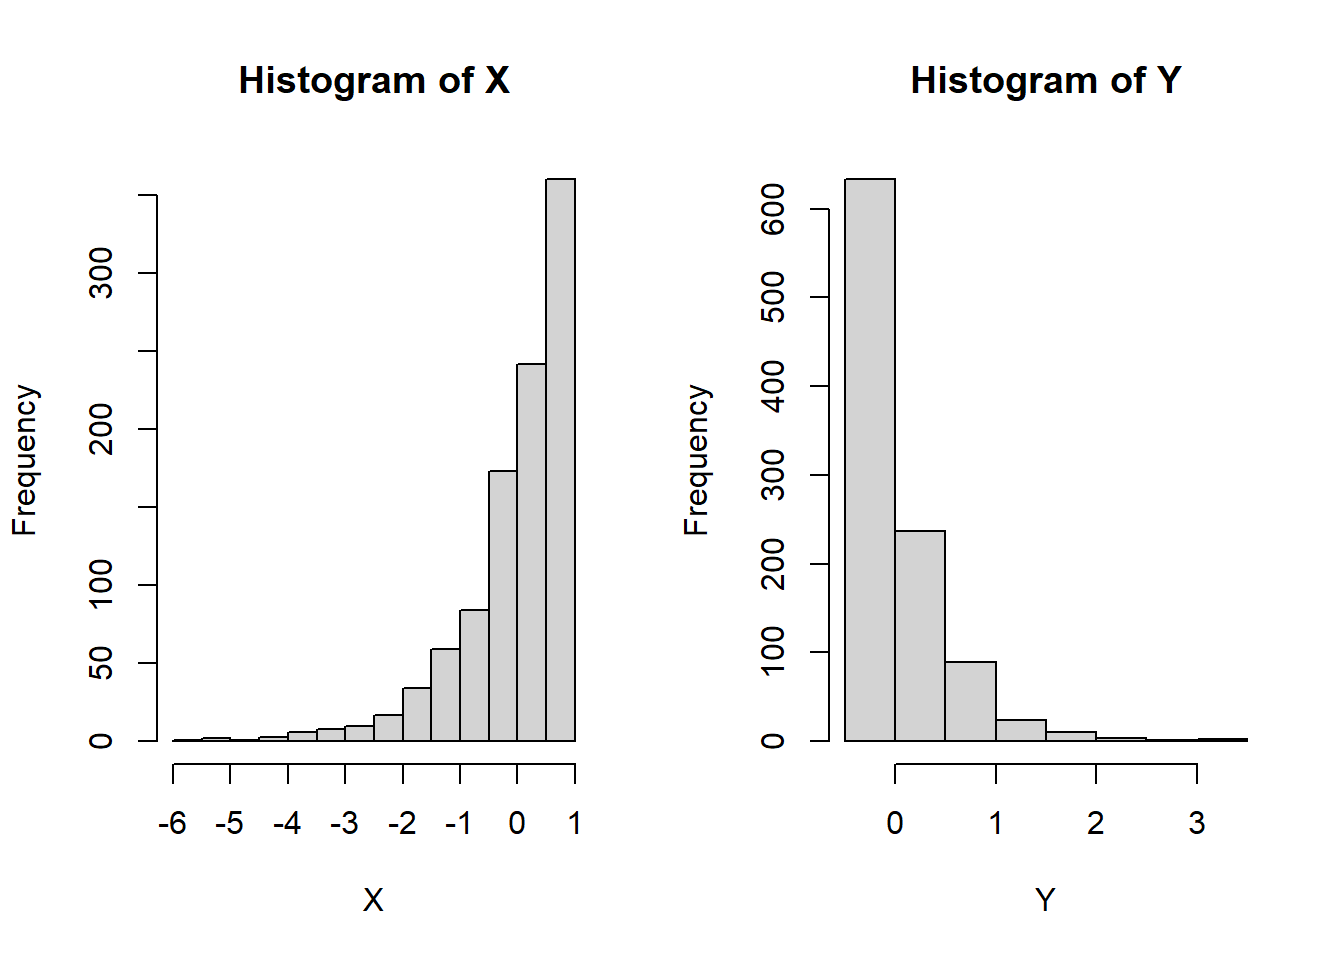
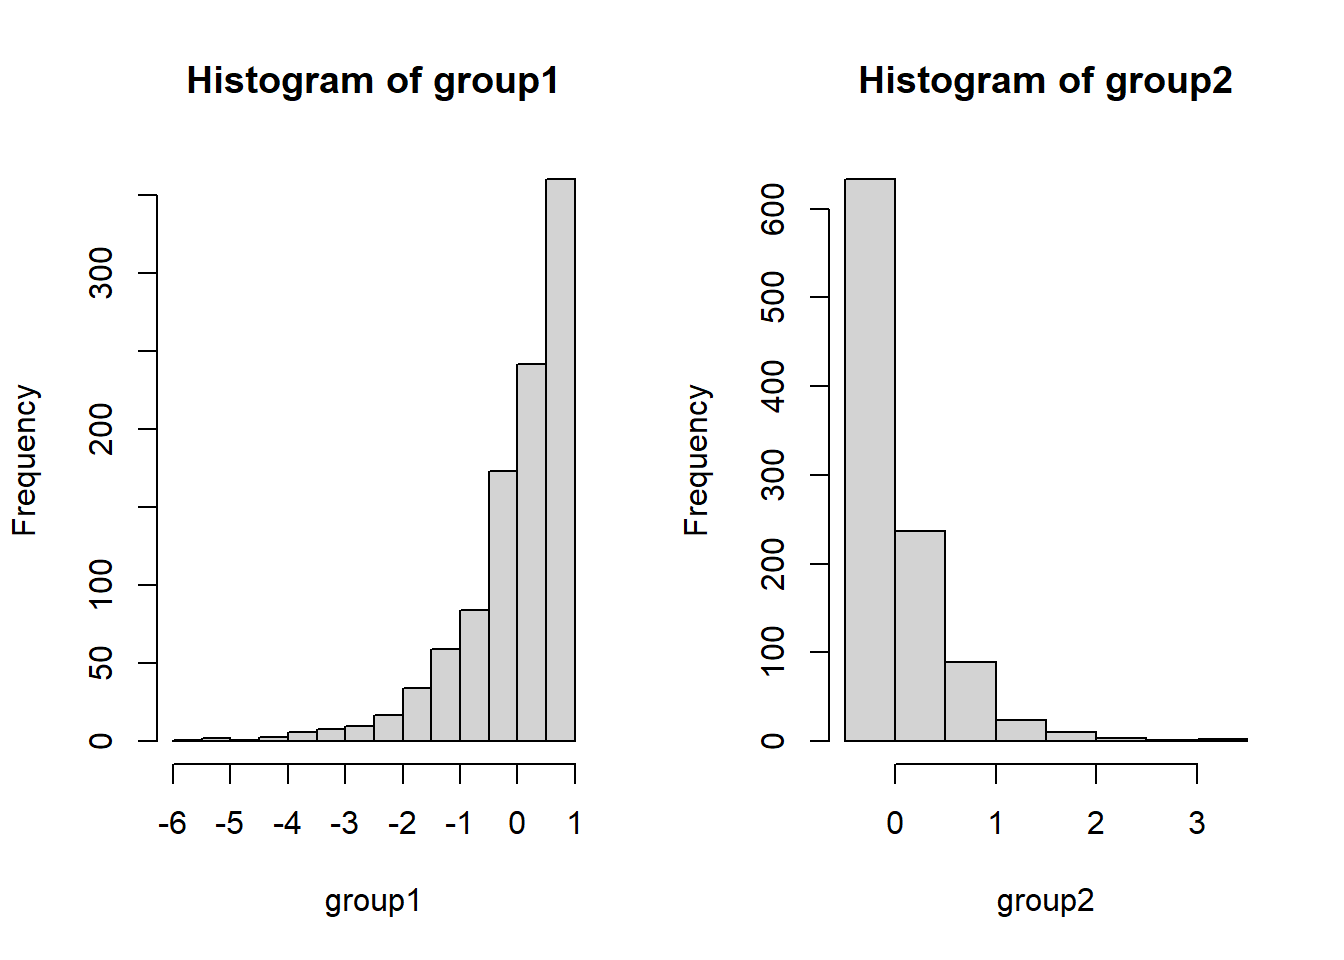
Change group names to improve understanding and make appendix optional.

diff --git a/content/post/2021-10-06-Einleitung-KliPPs.html b/content/post/2021-10-06-Einleitung-KliPPs.html
@@ -391,7 +391,7 @@ names(ttest)    # alle möglichen Argumente, die wir diesem Objekt entlocken kö
 <pre><code>## 
 ##  Two Sample t-test
 ## 
-## data:  X and Y
+## data:  group1 and group2
 ## t = -1.4456, df = 1998, p-value = 0.1484
 ## alternative hypothesis: true difference in means is not equal to 0
 ## 95 percent confidence interval:
@@ -431,28 +431,32 @@ names(ttest)    # alle möglichen Argumente, die wir diesem Objekt entlocken kö
 <div id="appendix" class="section level2">
 <h2>Appendix</h2>
 <div id="AppendixA" class="section level3">
-<h3>Appendix A: Code für Grundlagen der Inferenzstatistik</h3>
+<h3>Appendix A</h3>
+<details>
+<summary>
+<strong>Code für Grundlagen der Inferenzstatistik</strong>
+</summary>
 <p>Hier ist der Code für einige Grafiken und Simulationen dargestellt. Dies geht natürlich über den Stoff des Seminars hinaus und ist nur für Interessierte bestimmt.</p>
 <div id="simulation-von-stichproben" class="section level4">
 <h4>Simulation von Stichproben</h4>
-<p>Wir müssen diesem Befehl lediglich übergeben wie viele Replikationen wir wünschen und welchen Mittelwert und Standardabweichung die Zufallsvariablen haben sollen. Wir simulieren die Standardnormalverteilung <span class="math inline">\(\mathcal{N}(0,1)\)</span> und legen die generierte (realisierte) Zufallsvariable in einem Objekt mit dem Namen <code>X</code> ab, um später gezeigte Informationen wie den Mittelwert oder die Standardabweichung abrufen zu können - dies machen wir mit dem “Zuordnungspfeil”. Um zufällige Prozesse über verschiedene Zeitpunkte hinweg konstant zu halten (damit es replizierbar ist und Sie dasselbe Ergebnis bekommen), wird zunächst ein Startpunkt für den Zufallsprozess mittels <code>set.seed</code> gesetzt.</p>
+<p>Wir müssen diesem Befehl lediglich übergeben wie viele Replikationen wir wünschen und welchen Mittelwert und Standardabweichung die Zufallsvariablen haben sollen. Wir simulieren die Standardnormalverteilung <span class="math inline">\(\mathcal{N}(0,1)\)</span> und legen die generierte (realisierte) Zufallsvariable in einem Objekt mit dem Namen <code>group1</code> ab, um später gezeigte Informationen wie den Mittelwert oder die Standardabweichung abrufen zu können - dies machen wir mit dem “Zuordnungspfeil”. Um zufällige Prozesse über verschiedene Zeitpunkte hinweg konstant zu halten (damit es replizierbar ist und Sie dasselbe Ergebnis bekommen), wird zunächst ein Startpunkt für den Zufallsprozess mittels <code>set.seed</code> gesetzt.</p>
 <pre class="r"><code>set.seed(1234567) # für Replizierbarkeit (bei gleicher R Version, kommen Sie mit diesem Seed zum selben Ergebnis!)
-X &lt;- rnorm(n = 1000, mean = 0, sd = 1) # Standardnormalverteilung mit n = 1000
-hist(X)</code></pre>
+group1 &lt;- rnorm(n = 1000, mean = 0, sd = 1) # Standardnormalverteilung mit n = 1000
+hist(group1)</code></pre>
 <p><img src="/post/2021-10-06-Einleitung-KliPPs_files/figure-html/unnamed-chunk-46-1.png" width="672" style="display: block; margin: auto;" /></p>
-<pre class="r"><code>mean(X)</code></pre>
+<pre class="r"><code>mean(group1)</code></pre>
 <pre><code>## [1] -0.002997332</code></pre>
-<pre class="r"><code>sd(X)</code></pre>
+<pre class="r"><code>sd(group1)</code></pre>
 <pre><code>## [1] 0.9956916</code></pre>
 <pre class="r"><code># Simulation der zweiten Stichprobe
 set.seed(2)
-Y &lt;- rnorm(n = 1000, mean = 0, sd = 1)
-ttest &lt;- t.test(X, Y, var.equal = T)
+group2 &lt;- rnorm(n = 1000, mean = 0, sd = 1)
+ttest &lt;- t.test(group1, group2, var.equal = T)
 ttest # Vergleich zwischen den beiden Stichproben</code></pre>
 <pre><code>## 
 ##  Two Sample t-test
 ## 
-## data:  X and Y
+## data:  group1 and group2
 ## t = -1.4456, df = 1998, p-value = 0.1484
 ## alternative hypothesis: true difference in means is not equal to 0
 ## 95 percent confidence interval:
@@ -466,9 +470,9 @@ ttest # Vergleich zwischen den beiden Stichproben</code></pre>
 <pre class="r"><code>ts &lt;- c(); ps &lt;- c() # wir brauchen zunächst Vektoren, in die wir die t-Werte und die p-Werte hineinschreiben können
 for(i in 1:10000)
 {
-    X &lt;- rnorm(n = 1000, mean = 0, sd = 1)
-    Y &lt;- rnorm(n = 1000, mean = 0, sd = 1)
-    ttest &lt;- t.test(X, Y, var.equal = T)
+    group1 &lt;- rnorm(n = 1000, mean = 0, sd = 1)
+    group2 &lt;- rnorm(n = 1000, mean = 0, sd = 1)
+    ttest &lt;- t.test(group1, group2, var.equal = T)
     ts &lt;- c(ts, ttest$statistic) # nehme den Vektor ts und verlängere ihn um den neuen t-Wert
     ps &lt;- c(ps, ttest$p.value)   # nehme den Vektor ps und verlängere ihn um den neuen p-Wert
 }
@@ -485,9 +489,9 @@ abline(a = 1, b = 0, lwd = 3)</code></pre>
 <pre class="r"><code>ts &lt;- c(); ps &lt;- c() # wir brauchen zunächst Vektoren, in die wir die t-Werte und die p-Werte hineinschreiben können
 for(i in 1:10000)
 {
-    X &lt;- rnorm(n = 1000, mean = 0, sd = 1)
-    Y &lt;- -0.1 + rnorm(n = 1000, mean = 0, sd = 1) # Mittelwertsdifferenz ist 0.1
-    ttest &lt;- t.test(X, Y, var.equal = T)
+    group1 &lt;- rnorm(n = 1000, mean = 0, sd = 1)
+    group2 &lt;- -0.1 + rnorm(n = 1000, mean = 0, sd = 1) # Mittelwertsdifferenz ist 0.1
+    ttest &lt;- t.test(group1, group2, var.equal = T)
     ts &lt;- c(ts, ttest$statistic) # nehme den Vektor ts und verlängere ihn um den neuen t-Wert
     ps &lt;- c(ps, ttest$p.value)   # nehme den Vektor ps und verlängere ihn um den neuen p-Wert
 }
@@ -505,11 +509,11 @@ abline(a = 1, b = 0, lwd = 3)</code></pre>
 ts &lt;- c(); ps &lt;- c() # wir brauchen zunächst Vektoren, in die wir die t-Werte und die p-Werte hineinschreiben können
 for(i in 1:10000)
 {
-       X &lt;- -rexp(n = 5, rate = 1) # simuliere Exponentialverteilung zur Rate 1 mit n = 5
-        X &lt;- X + 1 # zentriere, sodass der Populationsmittelwert wieder 0 ist
-        Y &lt;- rexp(n = 5, rate = 2) # simuliere Exponentialverteilung zur Rate 2 mit n = 5
-        Y &lt;- Y - 1/2 # zentriere, sodass der Populationsmittelwert wieder 0 ist
-        ttest &lt;- t.test(X, Y, var.equal = T)
+       group1 &lt;- -rexp(n = 5, rate = 1) # simuliere Exponentialverteilung zur Rate 1 mit n = 5
+        group1 &lt;- group1 + 1 # zentriere, sodass der Populationsmittelwert wieder 0 ist
+        group2 &lt;- rexp(n = 5, rate = 2) # simuliere Exponentialverteilung zur Rate 2 mit n = 5
+        group2 &lt;- group2 - 1/2 # zentriere, sodass der Populationsmittelwert wieder 0 ist
+        ttest &lt;- t.test(group1, group2, var.equal = T)
         ts &lt;- c(ts, ttest$statistic) # nehme den Vektor ts und verlängere ihn um den neuen t-Wert
         ps &lt;- c(ps, ttest$p.value)   # nehme den Vektor ps und verlängere ihn um den neuen p-Wert
 }
@@ -527,11 +531,11 @@ abline(a = 1, b = 0, lwd = 3)</code></pre>
 ts &lt;- c(); ps &lt;- c() # wir brauchen zunächst Vektoren, in die wir die t-Werte und die p-Werte hineinschreiben können
 for(i in 1:10000)
 {
-        X &lt;- -rexp(n = 5, rate = 1) # simuliere Exponentialverteilung zur Rate 1 mit n = 5
-        X &lt;- X + 1 # zentriere, sodass der Populationsmittelwert wieder 0 ist
-        Y &lt;- rexp(n = 5, rate = 2) # simuliere Exponentialverteilung zur Rate 2 mit n = 5
-        Y &lt;- Y - 1/2 # zentriere, sodass der Populationsmittelwert wieder 0 ist
-        ttest &lt;- t.test(X, Y) # Welch Test
+        group1 &lt;- -rexp(n = 5, rate = 1) # simuliere Exponentialverteilung zur Rate 1 mit n = 5
+        group1 &lt;- group1 + 1 # zentriere, sodass der Populationsmittelwert wieder 0 ist
+        group2 &lt;- rexp(n = 5, rate = 2) # simuliere Exponentialverteilung zur Rate 2 mit n = 5
+        group2 &lt;- group2 - 1/2 # zentriere, sodass der Populationsmittelwert wieder 0 ist
+        ttest &lt;- t.test(group1, group2) # Welch Test
         ts &lt;- c(ts, ttest$statistic) # nehme den Vektor ts und verlängere ihn um den neuen t-Wert
         ps &lt;- c(ps, ttest$p.value)   # nehme den Vektor ps und verlängere ihn um den neuen p-Wert
 }
@@ -550,11 +554,11 @@ Insgesamt sieht die Verteilung der Teststatistik (also quasi der empirischen <sp
 ts &lt;- c(); ps &lt;- c() # wir brauchen zunächst Vektoren, in die wir die t-Werte und die p-Werte hineinschreiben können
 for(i in 1:10000)
 {
-        X &lt;- -rexp(n = 100, rate = 1) # simuliere Exponentialverteilung zur Rate 1 mit n = 100
-        X &lt;- X + 1 # zentriere, sodass der Populationsmittelwert wieder 0 ist
-        Y &lt;- rexp(n = 100, rate = 2) # simuliere Exponentialverteilung zur Rate 2 mit n = 100
-        Y &lt;- Y - 1/2 # zentriere, sodass der Populationsmittelwert wieder 0 ist
-        ttest &lt;- t.test(X, Y) # Welch Test
+        group1 &lt;- -rexp(n = 100, rate = 1) # simuliere Exponentialverteilung zur Rate 1 mit n = 100
+        group1 &lt;- group1 + 1 # zentriere, sodass der Populationsmittelwert wieder 0 ist
+        group2 &lt;- rexp(n = 100, rate = 2) # simuliere Exponentialverteilung zur Rate 2 mit n = 100
+        group2 &lt;- group2 - 1/2 # zentriere, sodass der Populationsmittelwert wieder 0 ist
+        ttest &lt;- t.test(group1, group2) # Welch Test
         ts &lt;- c(ts, ttest$statistic) # nehme den Vektor ts und verlängere ihn um den neuen t-Wert
         ps &lt;- c(ps, ttest$p.value)   # nehme den Vektor ps und verlängere ihn um den neuen p-Wert
 }
@@ -566,6 +570,7 @@ lines(x = seq(-4,4,0.01), dt(x = seq(-4,4,0.01), df = ttest$parameter), lwd = 3)
 abline(a = 1, b = 0, lwd = 3)</code></pre>
 <p><img src="/post/2021-10-06-Einleitung-KliPPs_files/figure-html/unnamed-chunk-52-2.png" width="672" style="display: block; margin: auto;" /></p>
 <p>Für jeweils 100 Erhebungen pro Gruppe ist der Verstoß gegen die Normalverteilungsannahme bei ungleichen Varianzen für den Welch-Test fast zu vernachlässigen.</p>
+</details>
 </div>
 </div>
 </div>
